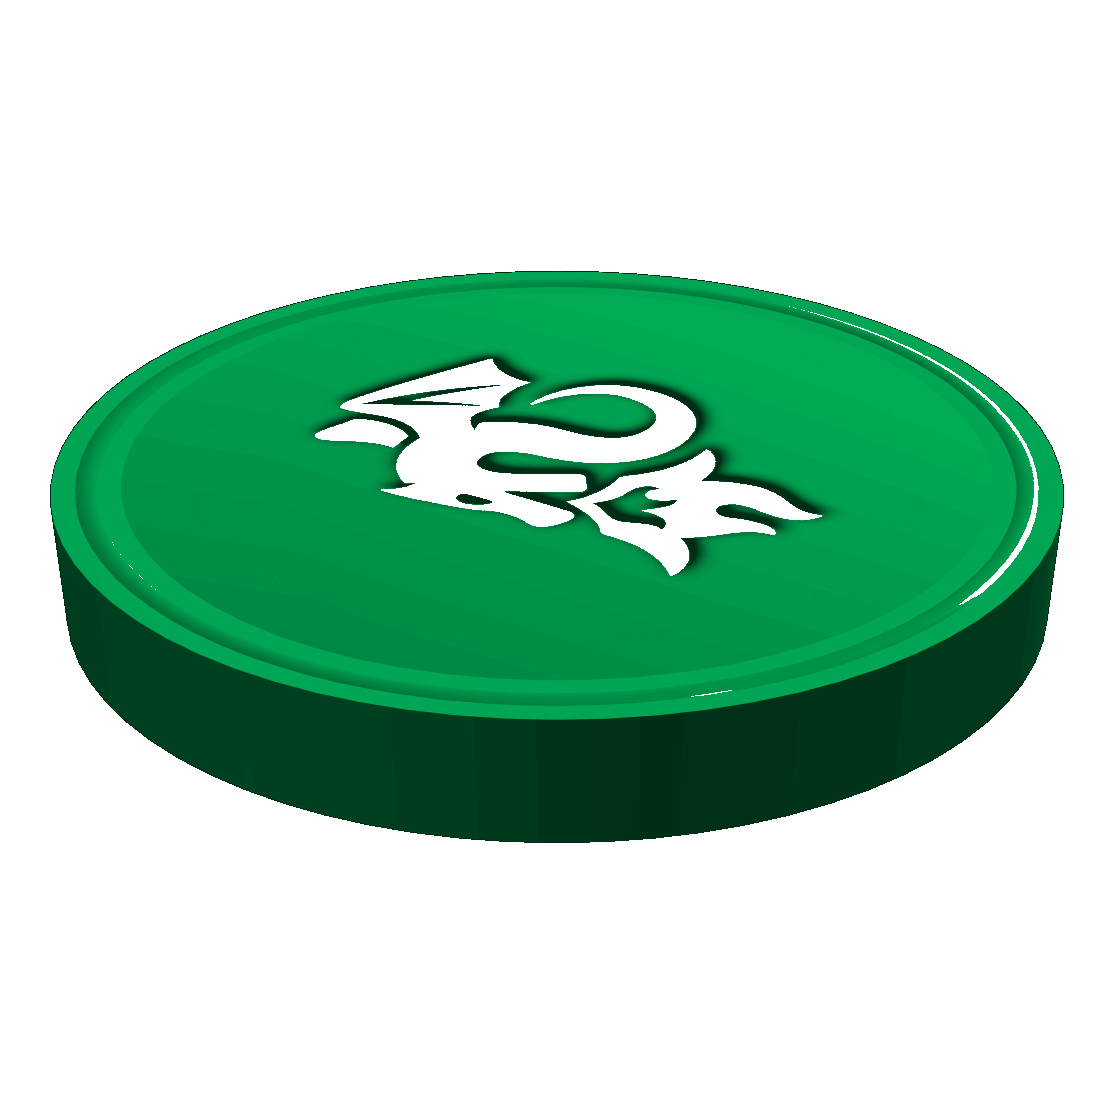
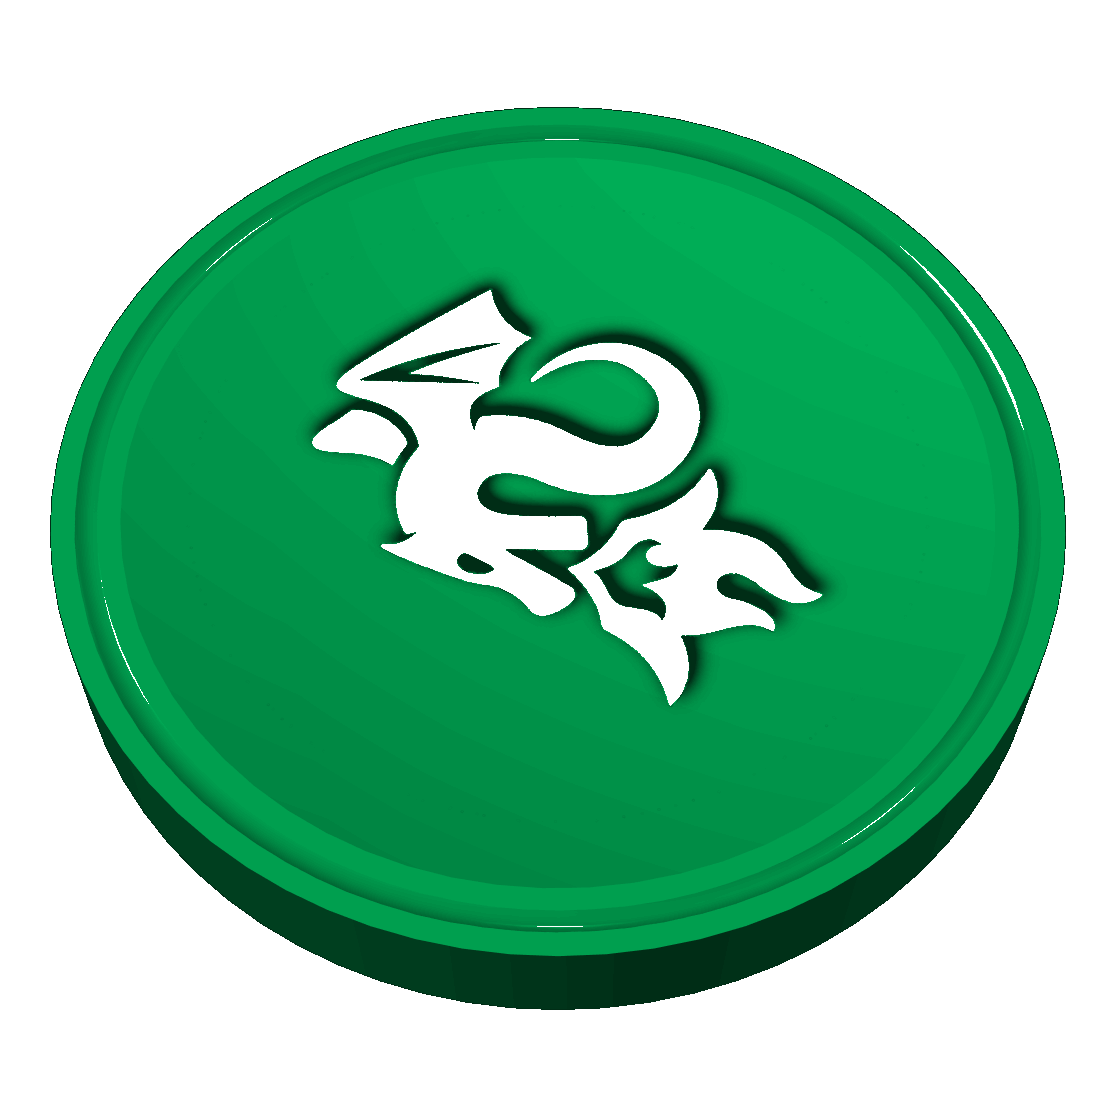
Wingstop: re-render flavor chips near straight-on (pitch -28, glyphs read clearly); dark-mode card centered + 30% shorter; flavor In-Motion video-left/text-right; drop Menu from Web Needs

diff --git a/components/blocks/wingstop/UiUxSection.tsx b/components/blocks/wingstop/UiUxSection.tsx
@@ -90,16 +90,19 @@ function DarkModeStack() {
           <p className="mt-3 max-w-[44ch] text-[15px] text-white/75 sm:text-base">{defaults.darkMode.body}</p>
         </div>
 
-        {/* RIGHT — receding device stack, confined to this column */}
-        <div className="relative h-[58vh] min-h-[420px] w-full lg:h-[62vh]">
+        {/* RIGHT — receding device stack, confined to this column. Column is
+            ~30% shorter than before; the stack is vertically centered in it
+            (device size unchanged — width is a % of column WIDTH, not height). */}
+        <div className="relative h-[40vh] min-h-[300px] w-full lg:h-[44vh]">
           {defaults.darkMode.screens.map((src, i) => {
             const z = i * GAP
             const s = F / (F + z)
-            // anchor front card lower-left of THIS column; recede up-and-right.
+            // front card sits just below center; recede up-and-right so the whole
+            // stack's centroid lands at the column's vertical middle.
             const frontX = 30,
-              frontY = 60,
+              frontY = 56,
               vpX = 78,
-              vpY = 34
+              vpY = 40
             const x = frontX + (vpX - frontX) * (1 - s)
             const y = frontY + (vpY - frontY) * (1 - s)
             const d = count > 1 ? i / (count - 1) : 0

diff --git a/components/blocks/wingstop/FlavorPagesSection.tsx b/components/blocks/wingstop/FlavorPagesSection.tsx
@@ -51,9 +51,10 @@ export function FlavorPagesSection() {
         </div>
       </div>
 
-      {/* Autoplay flavor video */}
+      {/* Autoplay flavor video — video on the LEFT, copy on the RIGHT. */}
       <div className="br-container pb-20 pt-14 md:pb-[120px] md:pt-24">
-        <div className="grid grid-cols-1 items-center gap-8 lg:grid-cols-[minmax(0,360px)_minmax(0,1fr)] lg:gap-[50px]">
+        <div className="grid grid-cols-1 items-center gap-8 lg:grid-cols-[minmax(0,1fr)_minmax(0,360px)] lg:gap-[50px]">
+          <AutoplayVideo src={defaults.video.src} poster={defaults.video.poster} />
           <div>
             <span className="br-data text-xs font-semibold uppercase tracking-[0.18em] text-[var(--ws-green)]">
               {defaults.video.eyebrow}
@@ -61,7 +62,6 @@ export function FlavorPagesSection() {
             <h3 className="mt-2 text-2xl font-semibold text-white sm:text-[28px]">{defaults.video.title}</h3>
             <p className="mt-2 max-w-[52ch] text-[15px] leading-relaxed text-white/80 sm:text-base">{defaults.video.body}</p>
           </div>
-          <AutoplayVideo src={defaults.video.src} poster={defaults.video.poster} />
         </div>
       </div>
     </section>

diff --git a/components/blocks/wingstop/data.ts b/components/blocks/wingstop/data.ts
@@ -288,7 +288,6 @@ export const webNeeds = {
   intro: 'Beyond the core experience, the team and I shipped the supporting surfaces across the site. Store-finder, locations, and careers.',
   items: [
     { src: '/wingstop/webneeds/d-locations.webp', label: 'Locations' },
-    { src: '/wingstop/webneeds/d-menu.webp', label: 'Menu' },
     { src: '/wingstop/webneeds/d-careers-welcome.webp', label: 'Careers' },
     { src: '/wingstop/webneeds/d-careers-restaurant.webp', label: 'Restaurant careers' },
     { src: '/wingstop/webneeds/d-careers-corporate.webp', label: 'Corporate careers' },
